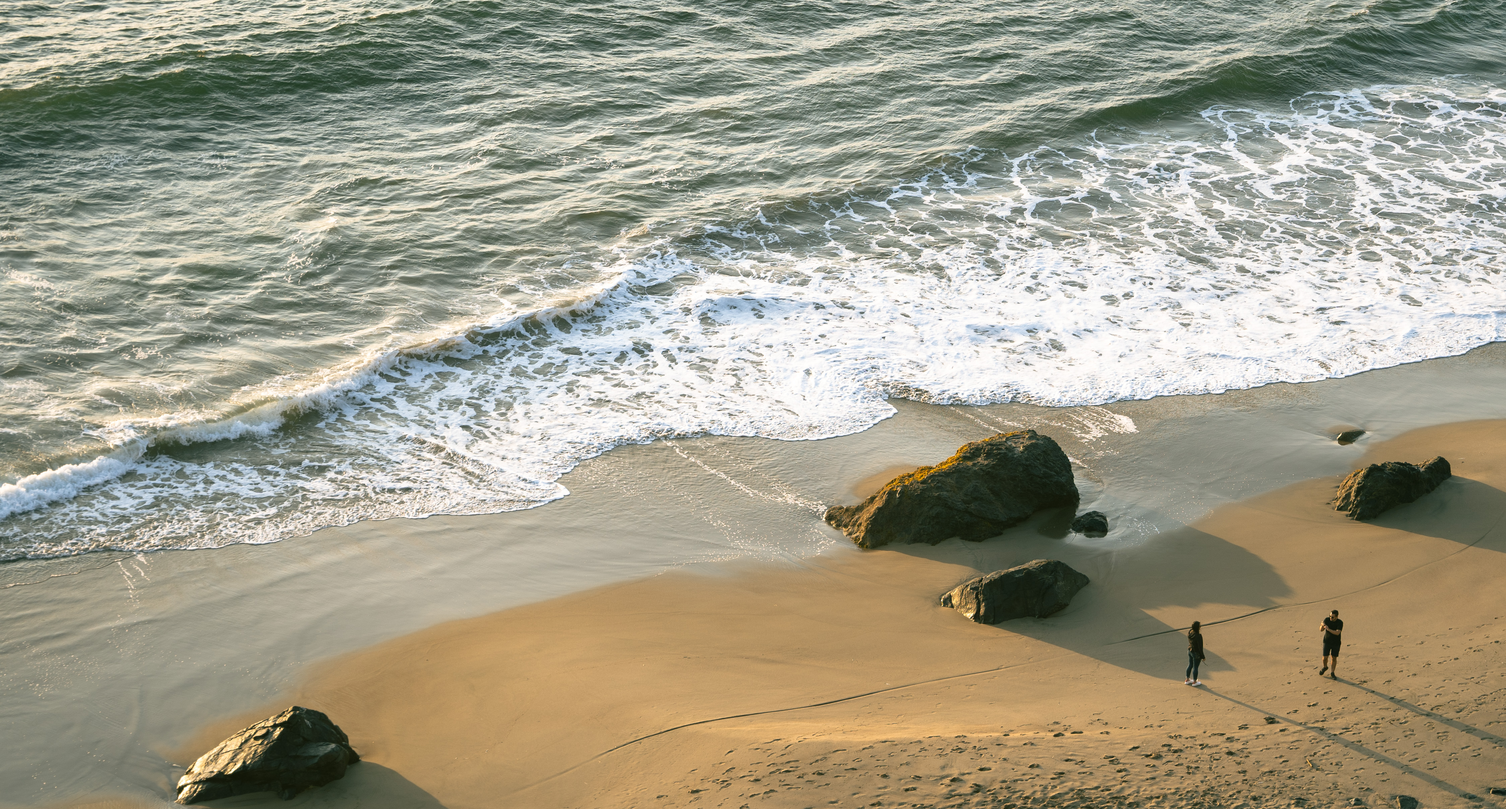
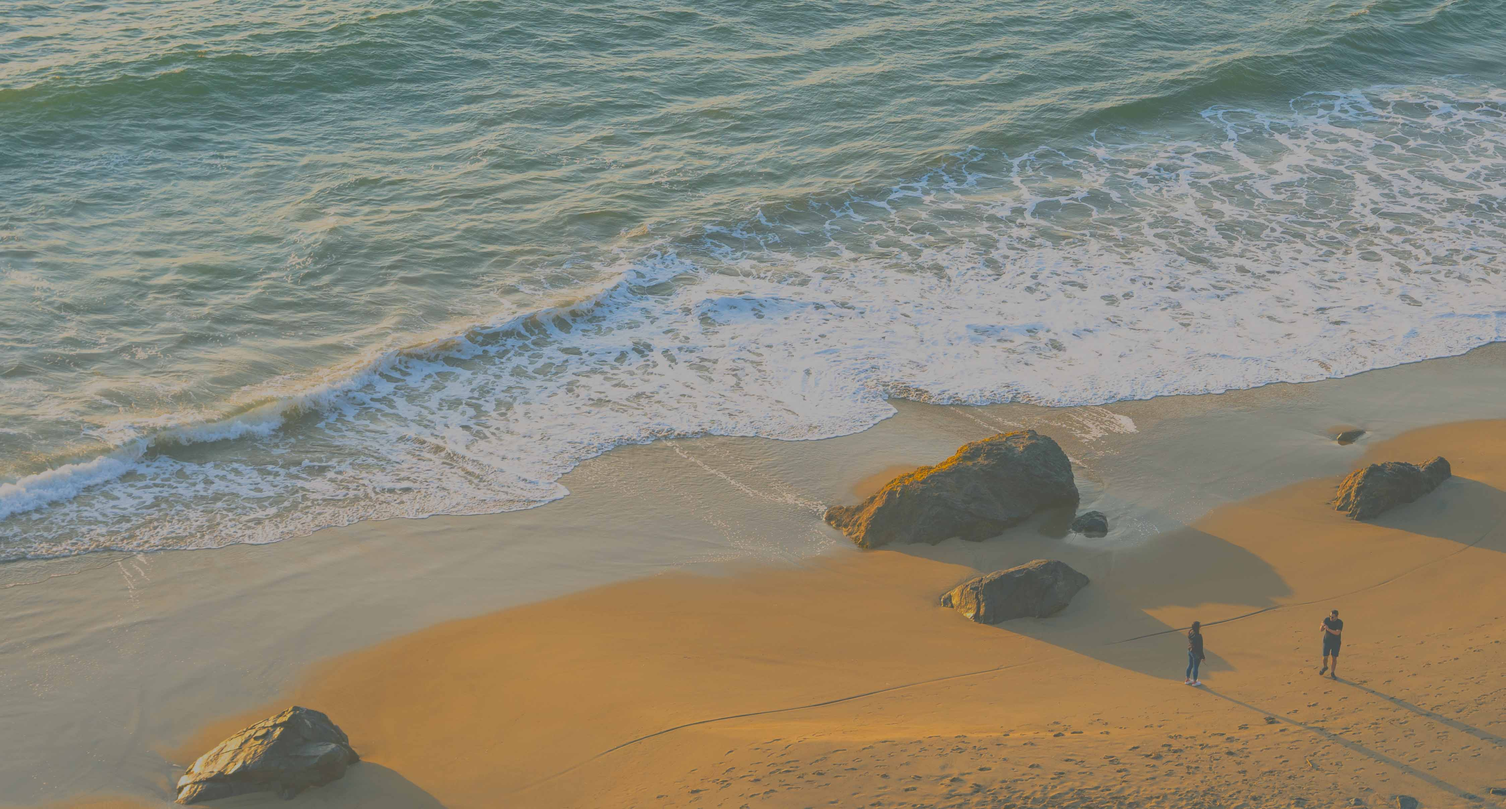
Optimize images & remove blend mode

diff --git a/styles/Hero.module.scss b/styles/Hero.module.scss
@@ -7,10 +7,8 @@
   display: flex;
   height: 100vh;
   width: 100%;
-  background: linear-gradient(var(--hero-bg-color), var(--hero-bg-color)), url("/images/hero.jpg") fixed no-repeat center center;
-  background-blend-mode: luminosity, normal;
+  background: url("/images/hero.jpg") fixed no-repeat center center;
   background-size: cover;
-  --hero-bg-color: #41878a8f;
 
   animation: fadeIn ease .3s;
   animation-iteration-count: 1;
